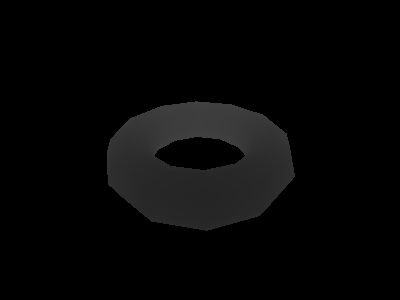
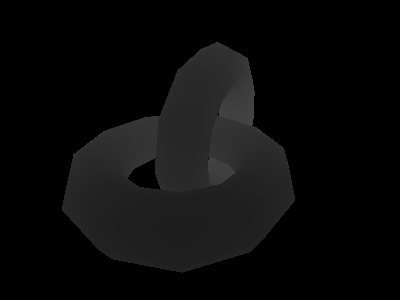
additional test scenes

Changed region(s): [[0.15, 0.12, 0.75, 0.93], [0.3, 0.42, 0.63, 0.63]]

diff --git a/src/main.cpp b/src/main.cpp
@@ -13,11 +13,11 @@ int main(void) {
                                   Vector3f{1.0f,  -1.0f,  1.0f},
                                   Vector3f{-1.0f, 1.0f,   1.0f} });*/
     Scene scene;
-    scene.loadFromObj("res/scenes/torus.obj");
+    scene.loadFromObj("res/scenes/torus2.obj");
 
     BasicCamera camera(400, 300, 90.0, 4.0/3.0);
 
-    camera.lookAt( {2.0f, 3.0f, 4.0f},
+    camera.lookAt( {2.0f, 2.5f, 4.0f},
                    {0.0f, 0.0f, 0.0f},
                    {0.0f, 1.0f, 0.0f} );
 
